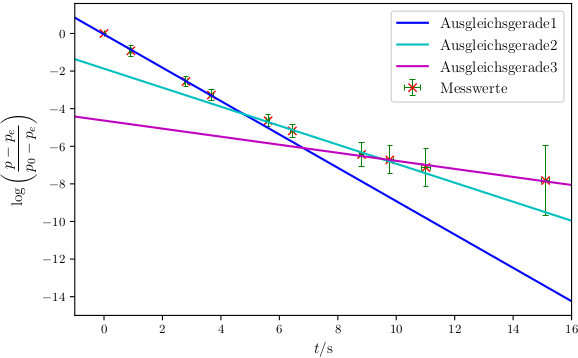
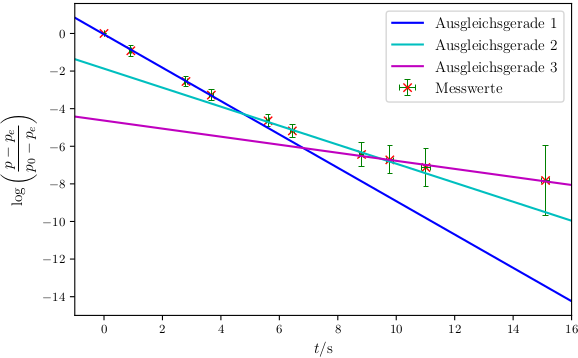
Auswertung Teil2

Changed region(s): [[0.7474, 0.0307, 0.9654, 0.2765], [0.654, 0.0307, 0.7163, 0.2765]]

diff --git a/FP-V70/scripts/mainscriptw.py b/FP-V70/scripts/mainscriptw.py
@@ -187,7 +187,7 @@ print('STL4 = ', STL4)
 
 makeTable([noms(pTL4)[1:], stds(pTL4)[1:], tTL4_1, tTL4_2, tTL4_3, noms(tTL4)[1:], stds(tTL4)[1:]], r'\multicolumn{2}{c}{'+r'$p/10^{-4}\si{\milli\bar}$'+r'} & {'+r'$t_1/\si{\second}$'+r'} & {'+r'$t_2/\si{\second}$'+r'} & {'+r'$t_3/\si{\second}$'+r'} & \multicolumn{2}{c}{'+r'$\bar{t}/\si{\second}$'+r'}', 'tabTL4', ['S[table-format=2.0]', ' @{${}\pm{}$} S[table-format=1.1]','S[table-format=2.2]', 'S[table-format=2.2]', 'S[table-format=2.2]', 'S[table-format=2.2]', ' @{${}\pm{}$} S[table-format=1.2]'], ["%2.0f", "%1.1f", "%2.2f", "%2.2f", "%2.2f", "%2.2f", "%1.2f"])
 
-"""
+
 #Plot
 #TL1
 plt.cla()
@@ -195,8 +195,8 @@ plt.clf()
 x_plot = np.linspace(-2,15)
 
 plt.errorbar(noms(tTL1), noms(pTL1), xerr=stds(tTL1), yerr=stds(pTL1), fmt='rx', markersize=6, elinewidth=0.5, capsize=2, capthick=0.5, ecolor='g',barsabove=True ,label='Messwerte')
-plt.plot(x_plot,x_plot*paramsLinearTL1[0]+paramsLinearTL1[1],'b-',label='Ausgleichsgerade1')
-plt.plot(x_plot,x_plot*paramsLinearTL1_2[0]+paramsLinearTL1_2[1],'c-',label='Ausgleichsgerade2')
+plt.plot(x_plot,x_plot*paramsLinearTL1[0]+paramsLinearTL1[1],'b-',label='Ausgleichsgerade 1')
+plt.plot(x_plot,x_plot*paramsLinearTL1_2[0]+paramsLinearTL1_2[1],'c-',label='Ausgleichsgerade 2')
 
 plt.xlabel(r'$t/\si{\second}$')
 plt.ylabel(r'$p/10^{-4}\si{\milli\bar}$')
@@ -213,8 +213,8 @@ plt.clf()
 x_plot = np.linspace(-2,25)
 
 plt.errorbar(noms(tTL2), noms(pTL2), xerr=stds(tTL2), yerr=stds(pTL2), fmt='rx', markersize=6, elinewidth=0.5, capsize=2, capthick=0.5, ecolor='g',barsabove=True ,label='Messwerte')
-plt.plot(x_plot,x_plot*paramsLinearTL2[0]+paramsLinearTL2[1],'b-',label='Ausgleichsgerade')
-plt.plot(x_plot,x_plot*paramsLinearTL2_2[0]+paramsLinearTL2_2[1],'c-',label='Ausgleichsgerade2')
+plt.plot(x_plot,x_plot*paramsLinearTL2[0]+paramsLinearTL2[1],'b-',label='Ausgleichsgerade 1')
+plt.plot(x_plot,x_plot*paramsLinearTL2_2[0]+paramsLinearTL2_2[1],'c-',label='Ausgleichsgerade 2')
 
 plt.xlabel(r'$t/\si{\second}$')
 plt.ylabel(r'$p/10^{-4}\si{\milli\bar}$')
@@ -231,8 +231,8 @@ plt.clf()
 x_plot = np.linspace(-2,35)
 
 plt.errorbar(noms(tTL3), noms(pTL3), xerr=stds(tTL3), yerr=stds(pTL3), fmt='rx', markersize=6, elinewidth=0.5, capsize=2, capthick=0.5, ecolor='g',barsabove=True ,label='Messwerte')
-plt.plot(x_plot,x_plot*paramsLinearTL3[0]+paramsLinearTL3[1],'b-',label='Ausgleichsgerade')
-plt.plot(x_plot,x_plot*paramsLinearTL3_2[0]+paramsLinearTL3_2[1],'c-',label='Ausgleichsgerade2')
+plt.plot(x_plot,x_plot*paramsLinearTL3[0]+paramsLinearTL3[1],'b-',label='Ausgleichsgerade 1')
+plt.plot(x_plot,x_plot*paramsLinearTL3_2[0]+paramsLinearTL3_2[1],'c-',label='Ausgleichsgerade 2')
 
 plt.xlabel(r'$t/\si{\second}$')
 plt.ylabel(r'$p/10^{-4}\si{\milli\bar}$')
@@ -285,7 +285,7 @@ plt.xlim(-1,31)
 plt.legend(loc='best')
 plt.tight_layout(pad=0, h_pad=1.08, w_pad=1.08)
 plt.savefig('content/images/TL.png')
-"""
+
 print('TL done')
 
 
@@ -531,7 +531,7 @@ print('STS3 = ', STS3)
 
 makeTable([noms(pTS)[1:], stds(pTS)[1:], noms(pTS_log)[1:], stds(pTS_log)[1:], tTS_1, tTS_2, tTS_3, tTS_4, tTS_5, tTS_6, noms(tTS)[1:], stds(tTS)[1:]], r'\multicolumn{2}{c}{'+r'$p/10^{-5}\si{\milli\bar}$'+r'} & \multicolumn{2}{c}{'+r'$\log\left(\frac{p-p_e}{p_0-p_e}\right)$'+r'} & {'+r'$t_1/\si{\second}$'+r'} & {'+r'$t_2/\si{\second}$'+r'} & {'+r'$t_3/\si{\second}$'+r'} & {'+r'$t_4/\si{\second}$'+r'} & {'+r'$t_5/\si{\second}$'+r'} & {'+r'$t_6/\si{\second}$'+r'} & \multicolumn{2}{c}{'+r'$\bar{t}/\si{\second}$'+r'}', 'tabTS', ['S[table-format=3.1]', ' @{${}\pm{}$} S[table-format=2.1]', 'S[table-format=2.1]', ' @{${}\pm{}$} S[table-format=1.1]', 'S[table-format=2.2]', 'S[table-format=2.2]', 'S[table-format=2.2]', 'S[table-format=2.2]', 'S[table-format=2.2]', 'S[table-format=2.2]', 'S[table-format=2.2]', ' @{${}\pm{}$} S[table-format=1.2]'], ["%3.1f", "%2.1f", "%2.1f", "%1.1f", "%2.2f", "%2.2f", "%2.2f", "%2.2f", "%2.2f", "%2.2f", "%2.2f", "%1.2f"])
 
-"""
+
 #Plot
 #TSE
 plt.cla()
@@ -554,9 +554,9 @@ plt.clf()
 x_plot = np.linspace(-1,16)
 
 plt.errorbar(noms(tTS), noms(pTS_log), xerr=stds(tTS), yerr=stds(pTS_log), fmt='rx', markersize=6, elinewidth=0.5, capsize=2, capthick=0.5, ecolor='g',barsabove=True ,label='Messwerte')
-plt.plot(x_plot,x_plot*paramsLinearTS1[0]+paramsLinearTS1[1],'b-',label='Ausgleichsgerade1')
-plt.plot(x_plot,x_plot*paramsLinearTS2[0]+paramsLinearTS2[1],'c-',label='Ausgleichsgerade2')
-plt.plot(x_plot,x_plot*paramsLinearTS3[0]+paramsLinearTS3[1],'m-',label='Ausgleichsgerade3')
+plt.plot(x_plot,x_plot*paramsLinearTS1[0]+paramsLinearTS1[1],'b-',label='Ausgleichsgerade 1')
+plt.plot(x_plot,x_plot*paramsLinearTS2[0]+paramsLinearTS2[1],'c-',label='Ausgleichsgerade 2')
+plt.plot(x_plot,x_plot*paramsLinearTS3[0]+paramsLinearTS3[1],'m-',label='Ausgleichsgerade 3')
 
 plt.xlabel(r'$t/\si{\second}$')
 plt.ylabel(r'$\log\left(\frac{p-p_e}{p_0-p_e}\right)$')
@@ -565,7 +565,7 @@ plt.legend(loc='best')
 plt.tight_layout(pad=0, h_pad=1.08, w_pad=1.08)
 plt.savefig('content/images/TSL.png')
 print('TSL done')
-"""
+
 print('TS done')
 
 
@@ -605,7 +605,7 @@ print('SDS2 = ', SDS2)
 
 makeTable([noms(pDS)[1:], stds(pDS)[1:], noms(pDS_log)[1:], stds(pDS_log)[1:], tDS_1, tDS_2, tDS_3, tDS_4, tDS_5, noms(tDS)[1:], stds(tDS)[1:]], r'\multicolumn{2}{c}{'+r'$p/\si{\milli\bar}$'+r'} & \multicolumn{2}{c}{'+r'$\log\left(\frac{p-p_e}{p_0-p_e}\right)$'+r'} & {'+r'$t_1/\si{\second}$'+r'} & {'+r'$t_2/\si{\second}$'+r'} & {'+r'$t_3/\si{\second}$'+r'} & {'+r'$t_4/\si{\second}$'+r'} & {'+r'$t_5/\si{\second}$'+r'} & \multicolumn{2}{c}{'+r'$\bar{t}/\si{\second}$'+r'}', 'tabDS', ['S[table-format=3.2]', ' @{${}\pm{}$} S[table-format=2.2]', 'S[table-format=3.1]', ' @{${}\pm{}$} S[table-format=1.1]', 'S[table-format=3.2]', 'S[table-format=3.2]', 'S[table-format=3.2]', 'S[table-format=3.2]', 'S[table-format=3.2]', 'S[table-format=3.2]', '@{${}\pm{}$} S[table-format=1.2]'], ["%3.2f", "%2.2f", "%3.1f", "%1.1f", "%3.2f", "%3.2f", "%3.2f", "%3.2f", "%3.2f", "%3.2f", "%1.2f"])
 
-"""
+
 #Plot
 #DSE
 plt.cla()
@@ -626,8 +626,8 @@ plt.clf()
 x_plot = np.linspace(-5,135)
 
 plt.errorbar(noms(tDS), noms(pDS_log), xerr=stds(tDS), yerr=stds(pDS_log), fmt='rx', markersize=6, elinewidth=0.5, capsize=2, capthick=0.5, ecolor='g',barsabove=True ,label='Messwerte')
-plt.plot(x_plot,x_plot*paramsLinearDS1[0]+paramsLinearDS1[1],'b-',label='Ausgleichsgerade1')
-plt.plot(x_plot,x_plot*paramsLinearDS2[0]+paramsLinearDS2[1],'c-',label='Ausgleichsgerade2')
+plt.plot(x_plot,x_plot*paramsLinearDS1[0]+paramsLinearDS1[1],'b-',label='Ausgleichsgerade 1')
+plt.plot(x_plot,x_plot*paramsLinearDS2[0]+paramsLinearDS2[1],'c-',label='Ausgleichsgerade 2')
 
 plt.xlabel(r'$t/\si{\second}$')
 plt.ylabel(r'$\log\left(\frac{p-p_e}{p_0-p_e}\right)$')
@@ -636,7 +636,7 @@ plt.legend(loc='best')
 plt.tight_layout(pad=0, h_pad=1.08, w_pad=1.08)
 plt.savefig('content/images/DSL.png')
 print('DSL done')
-"""
+
 print('DS done')
 
 

diff --git a/FP-V70/content/auswertung.tex b/FP-V70/content/auswertung.tex
@@ -20,48 +20,53 @@ gemittelt zu
 \bar{t} = \mu_t\pm \sigma_t\text{.}
 \end{equation} 
 Dabei entspricht $N$ der Anzahl der durchgeführten Messungen pro Messreihe.
-In den Tabellen \ref{tab:TL1} bis \ref{tab:TL4} sind die Messwerte und die zugehörigen Mittelwerte der jeweiligen Messreihen aufgelistet.\\
-In den Abbildungen \ref{fig:TL1} bis \ref{fig:TL4} ist der Druck $p$ gegen die gemittelte Zeit $\bar{t}$ aufgetragen. Die linearen Ausgleichsrechnungen der Form
+In den Tabellen \ref{tab:TL1} bis \ref{tab:TL4} sind die Messwerte und die zugehörigen Mittelwerte der jeweiligen Messreihen aufgelistet. Der Fehler des Druckes ergibt sich dabei aus der Ungenauigkeit der Messskala von $10\%$ \cite{V70}.\\
+In den Abbildungen \ref{fig:TL1} bis \ref{fig:TL4} ist der Druck $p$ gegen die gemittelte Zeit $\bar{t}$ aufgetragen.
+Die linearen Ausgleichsrechnungen der Form
 \[
 p_i(t) = a_it+b_i
 \]
 ergeben für $p_g = \SI{2e-4}{\milli\bar}$ die Parameter
 \begin{align*}
-a_{TL1,1} &= \SI{4.4(1)e-4}{\milli\bar\per\second} \text{,}\\
-b_{TL1,1} &= \SI{0.6(8)e-4}{\milli\bar} \text{,}\\
-a_{TL1,2} &= \SI{4.7(1)e-4}{\milli\bar\per\second} \text{,}\\
-b_{TL1,2} &= \SI{-3.1(9)e-4}{\milli\bar} \text{,}\\
+a_.{TL1,1} &= \SI{4.4(1)e-4}{\milli\bar\per\second} \text{,}\\
+b_.{TL1,1} &= \SI{0.6(8)e-4}{\milli\bar} \text{,}\\
+a_.{TL1,2} &= \SI{4.7(1)e-4}{\milli\bar\per\second} \text{,}\\
+b_.{TL1,2} &= \SI{-3.1(9)e-4}{\milli\bar} \text{,}\\
 \end{align*}
 für $p_g = \SI{1.4e-4}{\milli\bar}$
 \begin{align*}
-a_{TL2,1} &= \SI{3.01(8)e-4}{\milli\bar\per\second} \text{,}\\
-b_{TL2,1} &= \SI{-0.7(9)e-4}{\milli\bar} \text{,}\\
-a_{TL2,2} &= \SI{3.30(4)e-4}{\milli\bar\per\second} \text{,}\\
-b_{TL2,2} &= \SI{-5.1(6)e-4}{\milli\bar} \text{,}\\
+a_.{TL2,1} &= \SI{3.01(8)e-4}{\milli\bar\per\second} \text{,}\\
+b_.{TL2,1} &= \SI{-0.7(9)e-4}{\milli\bar} \text{,}\\
+a_.{TL2,2} &= \SI{3.30(4)e-4}{\milli\bar\per\second} \text{,}\\
+b_.{TL2,2} &= \SI{-5.1(6)e-4}{\milli\bar} \text{,}\\
 \end{align*}
 für $p_g = \SI{1e-4}{\milli\bar}$
 \begin{align*}
-a_{TL3,1} &= \SI{2.26(5)e-4}{\milli\bar\per\second} \text{,}\\
-b_{TL3,1} &= \SI{-1(1)e-4}{\milli\bar} \text{,}\\
-a_{TL3,2} &= \SI{2.46(5)e-4}{\milli\bar\per\second} \text{,}\\
-b_{TL3,2} &= \SI{-5(1)e-4}{\milli\bar} \text{,}\\
+a_.{TL3,1} &= \SI{2.26(5)e-4}{\milli\bar\per\second} \text{,}\\
+b_.{TL3,1} &= \SI{-1(1)e-4}{\milli\bar} \text{,}\\
+a_.{TL3,2} &= \SI{2.46(5)e-4}{\milli\bar\per\second} \text{,}\\
+b_.{TL3,2} &= \SI{-5(1)e-4}{\milli\bar} \text{,}\\
 \end{align*}
 und für $p_g = \SI{0.5e-4}{\milli\bar}$
 \begin{align*}
-a_{TL4} &= \SI{0.676(4)e-4}{\milli\bar\per\second} \text{,}\\
-b_{TL4} &= \SI{0.43(3)e-4}{\milli\bar} \text{.}
+a_.{TL4} &= \SI{0.676(4)e-4}{\milli\bar\per\second} \text{,}\\
+b_.{TL4} &= \SI{0.43(3)e-4}{\milli\bar} \text{.}
 \end{align*}
 Der erste Index bezieht sich dabei auf die Messung bei gegebenem Gleichgewichtsdruck, der zweite Index bezieht sich auf die mögliche zweite Ausgleichsrechnung, bei der die erstsen drei Messwerte nicht mit berücksichtigt werden.
-Mit Formel \ref{eq:S2} ergibt sich für das Saugvermögen $S$
+Mit Formel \eqref{eq:S2} ergibt sich für das Saugvermögen $S$
 \begin{align*}
-S_{TL1,1} &= \SI{22(2)}{\litre\per\second} \text{,}\\
-S_{TL1,2} &= \SI{24(2)}{\litre\per\second} \text{,}\\
-S_{TL2,1} &= \SI{22(2)}{\litre\per\second} \text{,}\\
-S_{TL2,2} &= \SI{24(2)}{\litre\per\second} \text{,}\\
-S_{TL3,1} &= \SI{23(2)}{\litre\per\second} \text{,}\\
-S_{TL3,2} &= \SI{25(2)}{\litre\per\second} \text{,}\\
-S_{TL4}    &= \SI{14(1)}{\litre\per\second} \text{.}
+S_.{TL1,1} &= \SI{22(2)}{\litre\per\second} \text{,}\\
+S_.{TL1,2} &= \SI{24(2)}{\litre\per\second} \text{,}\\
+S_.{TL2,1} &= \SI{22(2)}{\litre\per\second} \text{,}\\
+S_.{TL2,2} &= \SI{24(2)}{\litre\per\second} \text{,}\\
+S_.{TL3,1} &= \SI{23(2)}{\litre\per\second} \text{,}\\
+S_.{TL3,2} &= \SI{25(2)}{\litre\per\second} \text{,}\\
+S_.{TL4}   &= \SI{14(1)}{\litre\per\second} \text{.}
 \end{align*}
+Das benötigte Volumen $V_.{TL}$ bestimmt sich dabei mit den Werten aus \ref{tab:V} zu:
+\[
+V_.{TL} = \dots = \SI{10.2(9)}{\litre}\text{.}
+\]
 
 \begin{table}
 \centering
@@ -120,6 +125,49 @@ S_{TL4}    &= \SI{14(1)}{\litre\per\second} \text{.}
 \end{figure}
 
 \subsubsection{Bestimmung des Saugvermögens $S$ über die Evakuierungskurve}
+
+In Tabelle \ref{tab:TS} sind die Messwerte für die Evakuierungskurve, sowie die nach Formel \eqref{} berechneten Mittelwerte $\bar{t}$ eingetragen.
+Dabei entsprechen $p_0=\SI{500(100)e-5}{\milli\bar}$ dem Anfangsdruck und $p_e=\SI{1.2(2)e-5}{\milli\bar}$ dem Enddruck der Kurve. Der Fehler des Druckes ergibt sich aus der Ungenauigkeit der Messskala von $20\%$ \cite{V70}. 
+Der Fehler der logarithmischen Werte berechnet sich nach der Gaußschen Fehlerfortpflanzung:
+\[
+\sigma_f = \sqrt{\sum_i\left(\frac{\partial f}{\partial x_i}\sigma_{x_i}\right)^2}\text{.}
+\]
+Konkret:
+\begin{align*}
+\sigma_.{ln}	&=\sqrt{\frac{\sigma_p^2+\sigma_{p_e}^2}{(p-p_e)^2}+\frac{\sigma_{p_0}^2+\sigma_{p_e}^2}{(p_0-p_e)^2}}\text{.}
+%\sigma_.{ln}	&=\frac{1}{z}\sigma_{z}\text{;}\\
+%z				&=\frac{p-p_e}{p_0-p_e}\text{,}\\
+%\sigma_{z}	&=\sqrt{\left(\frac{1}{p_y}\sigma_{p_x}\right)^2+\left(\frac{p_x}{p_y^2}\sigma_{p_y}\right)^2}\text{;}\\
+%p_x				&=p-p_e\text{,}\\
+%p_y				&=p_0-p_e\text{,}\\
+%\sigma_{p_x}	&=\sqrt{\sigma_p^2+\sigma_{p_e}^2}\text{,}\\
+%\sigma_{p_y}	&=\sqrt{\sigma_{p_0}^2+\sigma_{p_e}^2}\text{.}\\
+\end{align*}
+Dabei entsprechen die $\sigma_{p_i}$ den jeweiligen Abweichungen der $p_i$.
+Die Evakuierungskurve ist in Abbildung \ref{fig:TSE} zu sehen, die logarithmische Darstellung in Abbildung \ref{fig:TSL}.
+Lineare Ausgleichsrechnungen der Form
+\[
+\ln\left(\frac{p(t)-p_e}{p_0-p_e}\right) = a_it+b_i
+\]
+für die ersten vier Messwerte (Ausgleichsgerade 1), den fünften bis achten Messwert (Ausgleichsgerade 2) und den siebten bis zehnten Messwert (Ausgleichsgerade 3) ergeben die Parameter:
+\begin{align*}
+a_.{TE1} &= \SI{}{\per\second} \text{,}\\
+b_.{TE1} &= \SI{}{} \text{,}\\
+a_.{TE2} &= \SI{}{\per\second} \text{,}\\
+b_.{TE2} &= \SI{}{} \text{,}\\
+a_.{TE3} &= \SI{}{\per\second} \text{,}\\
+b_.{TE3} &= \SI{}{} \text{.}\\
+\end{align*} 
+Daraus folgen mit Formel \eqref{eq:} für $S$ die Werte:
+\begin{align*}
+S_.{TE1} &= \SI{9.1(8)}{\litre\per\second} \text{,}\\
+S_.{TE2} &= \SI{5.2(6)}{\litre\per\second} \text{,}\\
+S_.{TE3} &= \SI{2.2(3)}{\litre\per\second} \text{.}\\
+\end{align*} 
+Das benötigte Volumen $V_.{TE}$ bestimmt sich dabei mit den Werten aus \ref{tab:V} zu:
+\[
+V_.{TE} = \dots = \SI{10.3(9)}{\litre}\text{.}
+\]
 
 \begin{table}
 \centering
